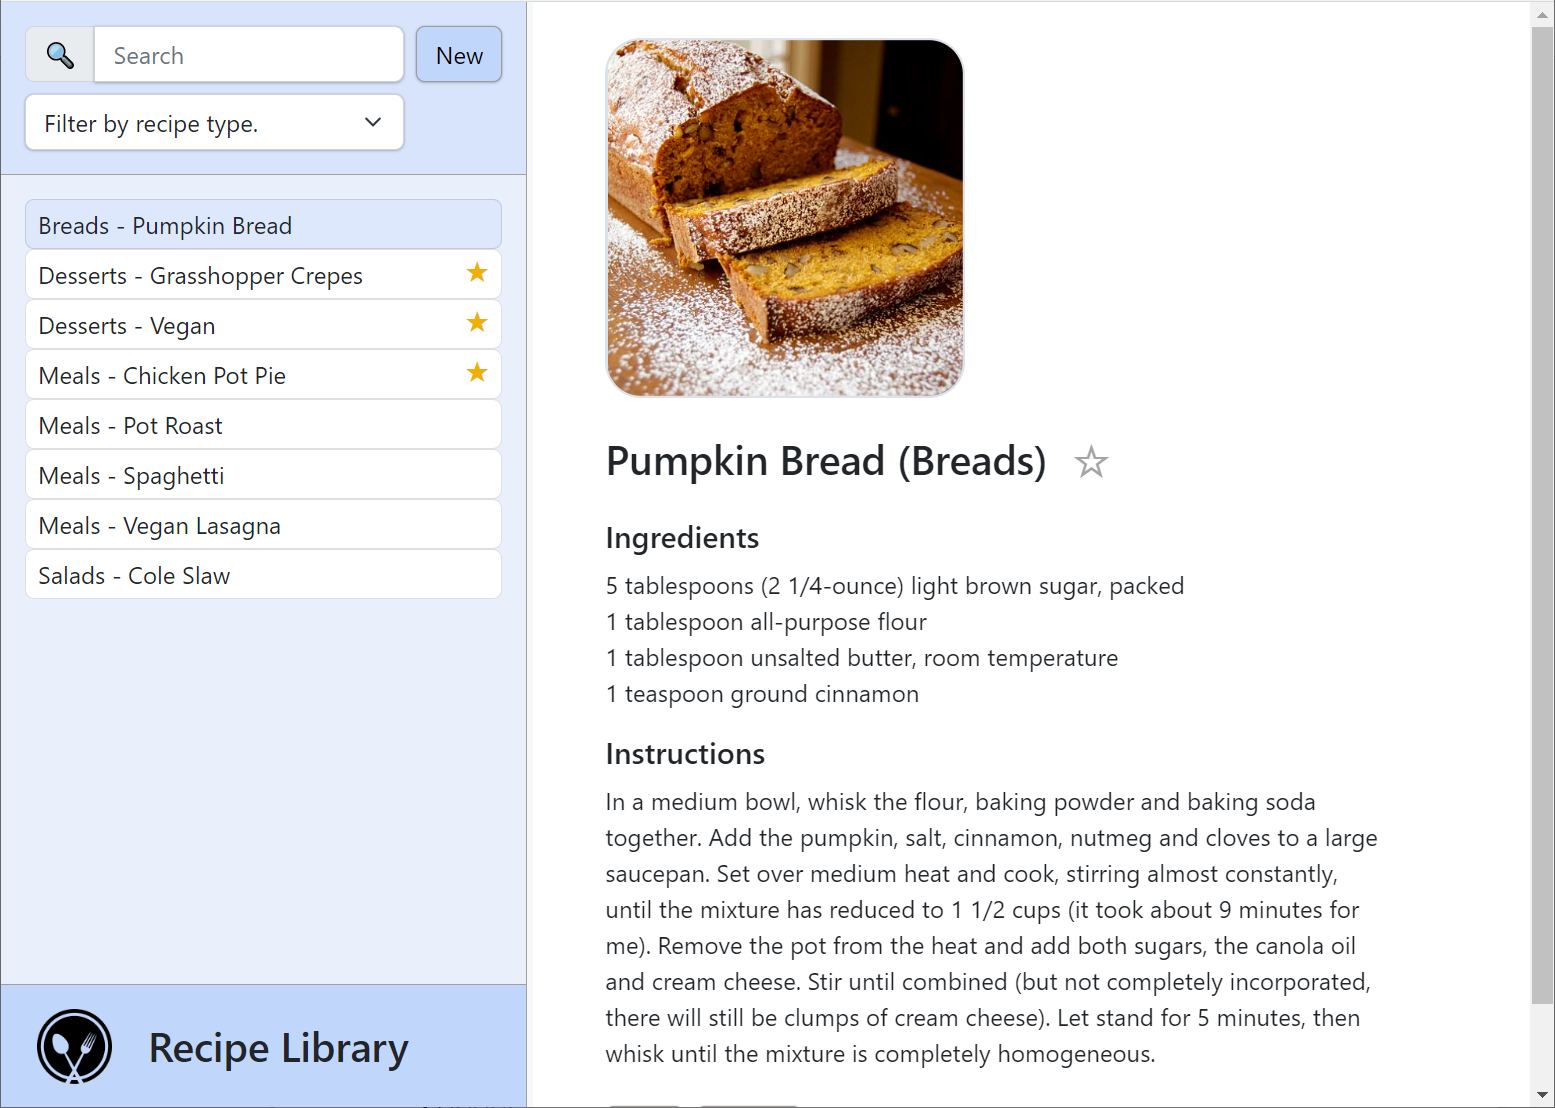
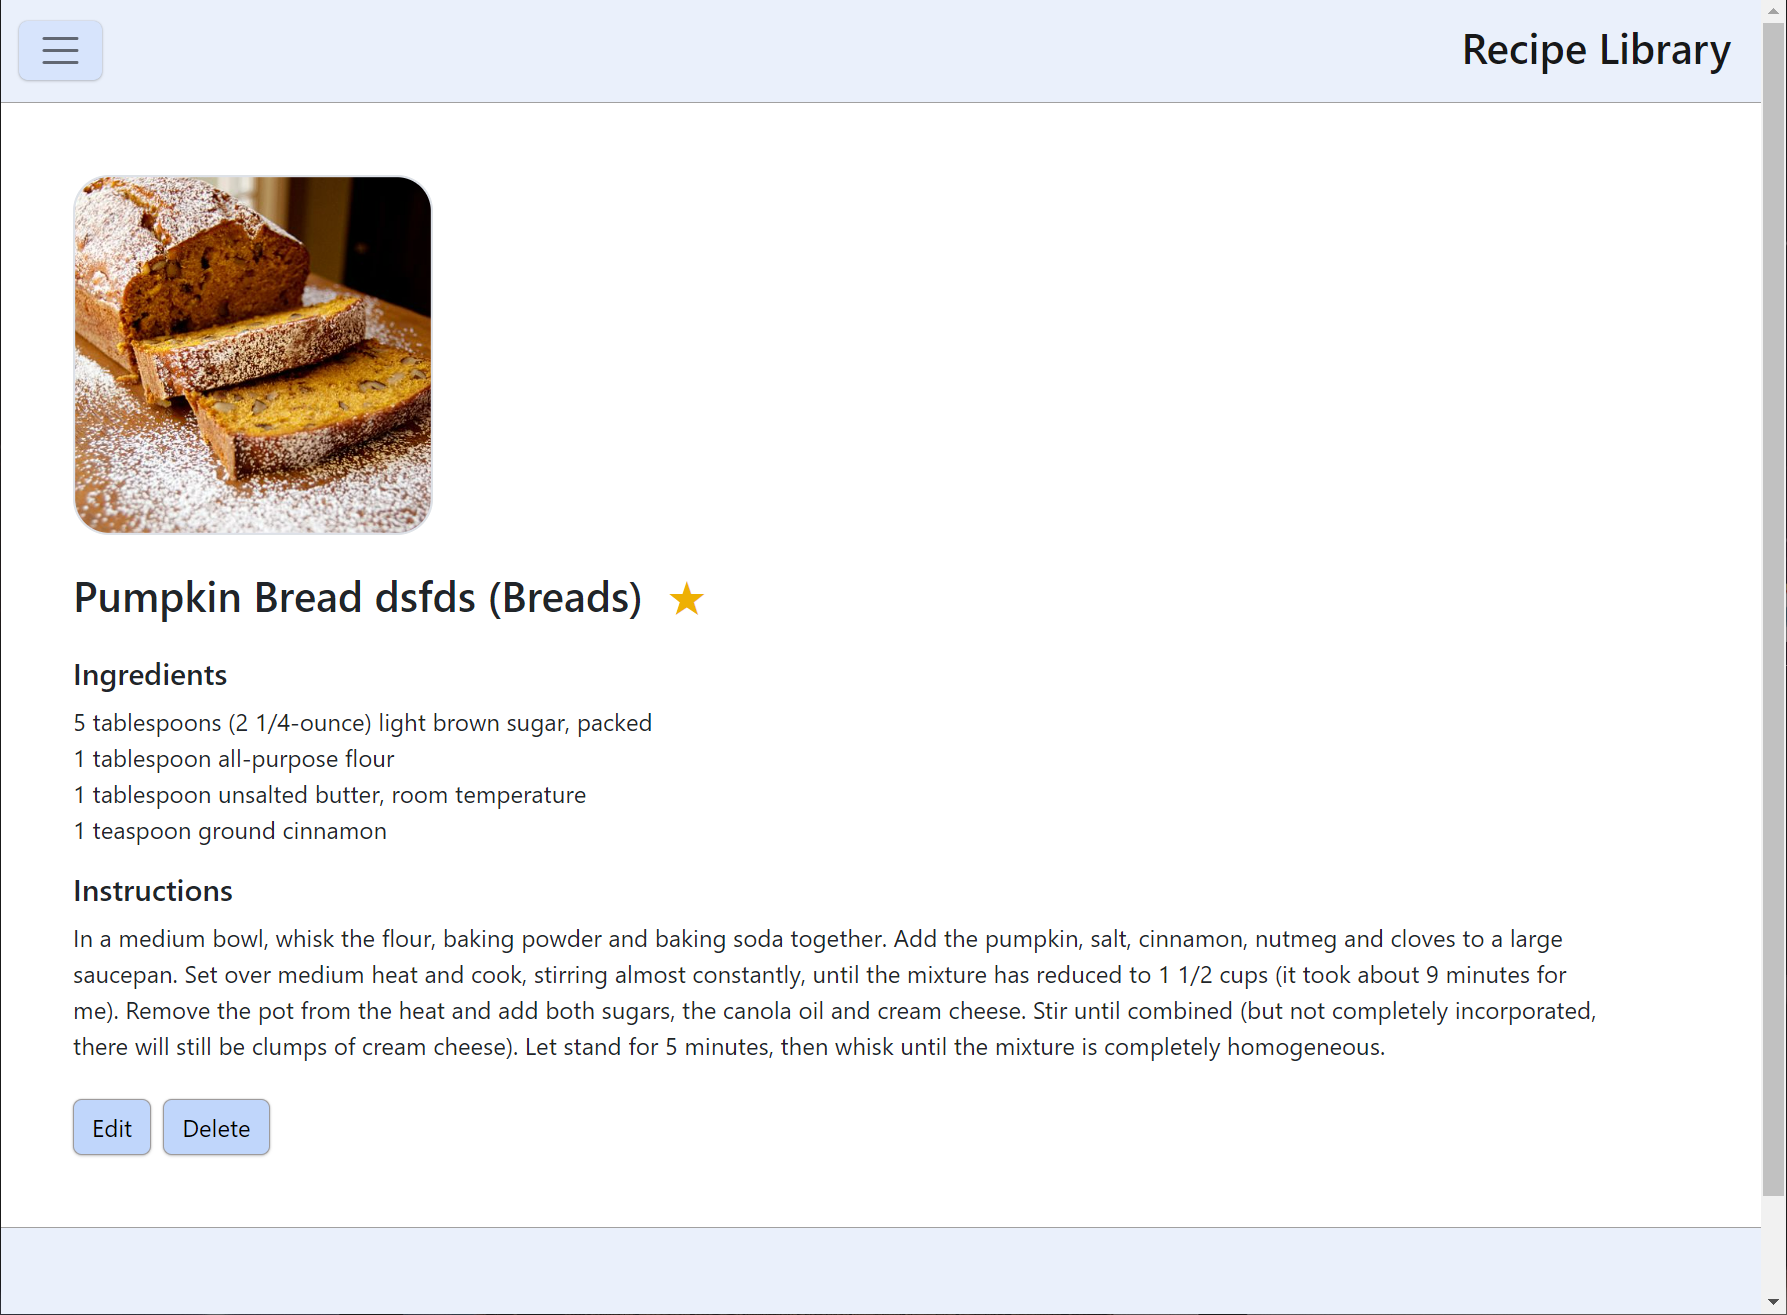
updated recipe page

diff --git a/src/components/Header.jsx b/src/components/Header.jsx
@@ -1,7 +1,6 @@
 import React from "react";
-import { NavDropdown, Offcanvas } from "react-bootstrap";
+import { Offcanvas } from "react-bootstrap";
 
-//import styles from "./Header.module.css";
 import "./Header.module.css";
 
 import Container from "react-bootstrap/Container";
@@ -14,62 +13,66 @@ import { FaGithub } from "react-icons/fa";
 
 export default function Header() {
   return (
-    <Navbar expand={false} collapseOnSelect>
-      <Container fluid>
-        <Navbar.Toggle
-          aria-controls={`offcanvasNavbar-expand-${false}`}
-          style={{
-            backgroundSize: "0",
-            borderWidth: 1,
-            borderColor: "#b8aaaa",
-            backgroundColor: "#f2ecec",
-            padding: 3,
-          }}
-        />
-        <Navbar.Offcanvas
-          id={`offcanvasNavbar-expand-${false}`}
-          aria-labelledby={`offcanvasNavbarLabel-expand-${false}`}
-          placement="start"
-        >
-          <Offcanvas.Header closeButton>
-            <Offcanvas.Title id={`offcanvasNavbarLabel-expand-${false}`}>
-              <Link aria-label="Twitter Link"
-                to="https://twitter.com/ShariLMcRae"
-                target="_blank"
-                rel="noopener noreferrer"
-              >
-                <FaTwitter className="me-1" />
-              </Link>
-              <Link aria-label="LinkedIn Link"
-                to="https://www.linkedin.com/in/shari-mcrae/"
-                target="_blank"
-                rel="noopener noreferrer"
-              >
-                <FaLinkedin className="me-1" />
-              </Link>
-              <Link aria-label="GitHub Link"
-                to="https://github.com/ShariMcRae"
-                target="_blank"
-                rel="noopener noreferrer"
-              >
-                <FaGithub />
-              </Link>
-            </Offcanvas.Title>
-          </Offcanvas.Header>
-          <Offcanvas.Body>
-            <h3>Shari McRae</h3>
-            <Nav className="justify-content-end flex-grow-1 pt-3">
-              <Nav.Link href="home">Home</Nav.Link>
-              <Link
-                style={{ textDecoration: 0 }}
-                to="https://docs.google.com/document/d/e/2PACX-1vS6nfmG85OwYyva6unZccU64GbGT86mUUWMDHLNgeLb08-G70yvlfaMiV0TZtpzqV4i06zI-V7bWjRD/pub"
-                target="_blank"
-                rel="noopener noreferrer"
-              >
-                Resume
-              </Link>
-              <Nav.Link href="recipes">Projects</Nav.Link>
-              {/* <NavDropdown
+    <header>
+      <Navbar sticky="top" expand={false} collapseOnSelect>
+        <Container fluid>
+          <Navbar.Toggle
+            aria-controls={`offcanvasNavbar-expand-${false}`}
+            style={{
+              backgroundSize: "0",
+              borderWidth: 1,
+              borderColor: "#b8aaaa",
+              backgroundColor: "#f2ecec",
+              padding: 3,
+            }}
+          />
+          <Navbar.Offcanvas
+            id={`offcanvasNavbar-expand-${false}`}
+            aria-labelledby={`offcanvasNavbarLabel-expand-${false}`}
+            placement="start"
+          >
+            <Offcanvas.Header closeButton>
+              <Offcanvas.Title id={`offcanvasNavbarLabel-expand-${false}`}>
+                <Link
+                  aria-label="Twitter Link"
+                  to="https://twitter.com/ShariLMcRae"
+                  target="_blank"
+                  rel="noopener noreferrer"
+                >
+                  <FaTwitter className="me-1" />
+                </Link>
+                <Link
+                  aria-label="LinkedIn Link"
+                  to="https://www.linkedin.com/in/shari-mcrae/"
+                  target="_blank"
+                  rel="noopener noreferrer"
+                >
+                  <FaLinkedin className="me-1" />
+                </Link>
+                <Link
+                  aria-label="GitHub Link"
+                  to="https://github.com/ShariMcRae"
+                  target="_blank"
+                  rel="noopener noreferrer"
+                >
+                  <FaGithub />
+                </Link>
+              </Offcanvas.Title>
+            </Offcanvas.Header>
+            <Offcanvas.Body>
+              <h3>Shari McRae</h3>
+              <Nav className="justify-content-end flex-grow-1 pt-3">
+                <Nav.Link href="home">Home</Nav.Link>
+                <Link
+                  style={{ textDecoration: 0 }}
+                  to="https://docs.google.com/document/d/e/2PACX-1vS6nfmG85OwYyva6unZccU64GbGT86mUUWMDHLNgeLb08-G70yvlfaMiV0TZtpzqV4i06zI-V7bWjRD/pub"
+                  target="_blank"
+                  rel="noopener noreferrer"
+                >
+                  Resume
+                </Link>
+                <Nav.Link href="recipes">Projects</Nav.Link>
+                {/* <NavDropdown
                 title="Projects"
                 id={`offcanvasNavbarDropdown-expand-${false}`}
               >
@@ -77,33 +80,37 @@ export default function Header() {
                   Recipe Library
                 </NavDropdown.Item>
               </NavDropdown> */}
-            </Nav>
-          </Offcanvas.Body>
-        </Navbar.Offcanvas>
-        <Navbar.Brand>
-          <Link aria-label="Twitter Link"
-            to="https://twitter.com/ShariLMcRae"
-            target="_blank"
-            rel="noopener noreferrer"
-          >
-            <FaTwitter size={20} className="me-2" />
-          </Link>
-          <Link aria-label="LinkedIn Link"
-            to="https://www.linkedin.com/in/shari-mcrae/"
-            target="_blank"
-            rel="noopener noreferrer"
-          >
-            <FaLinkedin size={20} className="me-2" />
-          </Link>
-          <Link aria-label="GitHub Link"
-            to="https://github.com/ShariMcRae"
-            target="_blank"
-            rel="noopener noreferrer"
-          >
-            <FaGithub size={20} />
-          </Link>
-        </Navbar.Brand>
-      </Container>
-    </Navbar>
+              </Nav>
+            </Offcanvas.Body>
+          </Navbar.Offcanvas>
+          <Navbar.Brand>
+            <Link
+              aria-label="Twitter Link"
+              to="https://twitter.com/ShariLMcRae"
+              target="_blank"
+              rel="noopener noreferrer"
+            >
+              <FaTwitter size={20} className="me-2" />
+            </Link>
+            <Link
+              aria-label="LinkedIn Link"
+              to="https://www.linkedin.com/in/shari-mcrae/"
+              target="_blank"
+              rel="noopener noreferrer"
+            >
+              <FaLinkedin size={20} className="me-2" />
+            </Link>
+            <Link
+              aria-label="GitHub Link"
+              to="https://github.com/ShariMcRae"
+              target="_blank"
+              rel="noopener noreferrer"
+            >
+              <FaGithub size={20} />
+            </Link>
+          </Navbar.Brand>
+        </Container>
+      </Navbar>
+    </header>
   );
 }

diff --git a/src/components/Recipe.jsx b/src/components/Recipe.jsx
@@ -23,15 +23,13 @@ export default function Recipe() {
         <p>Description:</p>
         <p>
           This project was a Front End Software Development bootcamp assignment.
-          The goal was to create a React application that accesses an online API, 
+          The goal was to create a React application that accesses an API, 
           performs all CRUD operations and uses both React Router and React Bootstrap.
         </p>
         <p>Features:</p>
         <p className={styles.projectDesc}>
           The Recipe Library allows users to create, edit and delete recipes stored in a database hosted by MockAPI.com. 
-          The menu allows users to search and filter recipes by type. The menu can be hidden by clicking on 
-          the vertical line separating the menu from the recipe content on the right. Future versions 
-          (coming soon) will hide the menu and make other adjustments for a more responsive UI. The user
+          The menu allows users to search and filter recipes by type. The user
           is warned if they try to exit the recipe edit page before saving. 
         </p>
       </div>

diff --git a/src/components/Footer.jsx b/src/components/Footer.jsx
@@ -10,7 +10,8 @@ export default function Footer() {
         <Nav.Link href="home" className="me-3">
           Home
         </Nav.Link>
-        <Link className="me-3"
+        <Link
+          className="me-3"
           style={{ textDecoration: 0 }}
           to="https://docs.google.com/document/d/e/2PACX-1vS6nfmG85OwYyva6unZccU64GbGT86mUUWMDHLNgeLb08-G70yvlfaMiV0TZtpzqV4i06zI-V7bWjRD/pub"
           target="_blank"
@@ -18,7 +19,7 @@ export default function Footer() {
         >
           Resume
         </Link>
-        <Nav.Link href="recipes">Projects</Nav.Link> 
+        <Nav.Link href="recipes">Projects</Nav.Link>
       </div>
       <img
         src={process.env.PUBLIC_URL + "/footer.png"}

diff --git a/src/components/Layout.jsx b/src/components/Layout.jsx
@@ -11,17 +11,13 @@ export default function Layout() {
   // and an outlet on the right for updating the page content.
   return (
     <>
-      <header>
-        <Header />
-      </header>
+      <Header />
       <main>
         <div className="container">
           <Outlet />
         </div>
       </main>
-      <footer>
-        <Footer />
-      </footer>
+      <Footer />
     </>
   );
 }

diff --git a/src/index.js b/src/index.js
@@ -18,7 +18,6 @@ import Resume from "./components/Resume";
 import "bootstrap/dist/css/bootstrap.min.css";
 import "./index.css";
 
-
 // Define our routes for React Router.
 const router = createBrowserRouter(
   createRoutesFromElements(

diff --git a/src/components/Footer.module.css b/src/components/Footer.module.css
@@ -1,8 +1,7 @@
-
 .centerOnPage {
   display: flex;
   flex-direction: row;
   justify-content: center;
   padding-top: 1rem;
   border-top: 1px solid #b8aaaa;
-}  
+}
